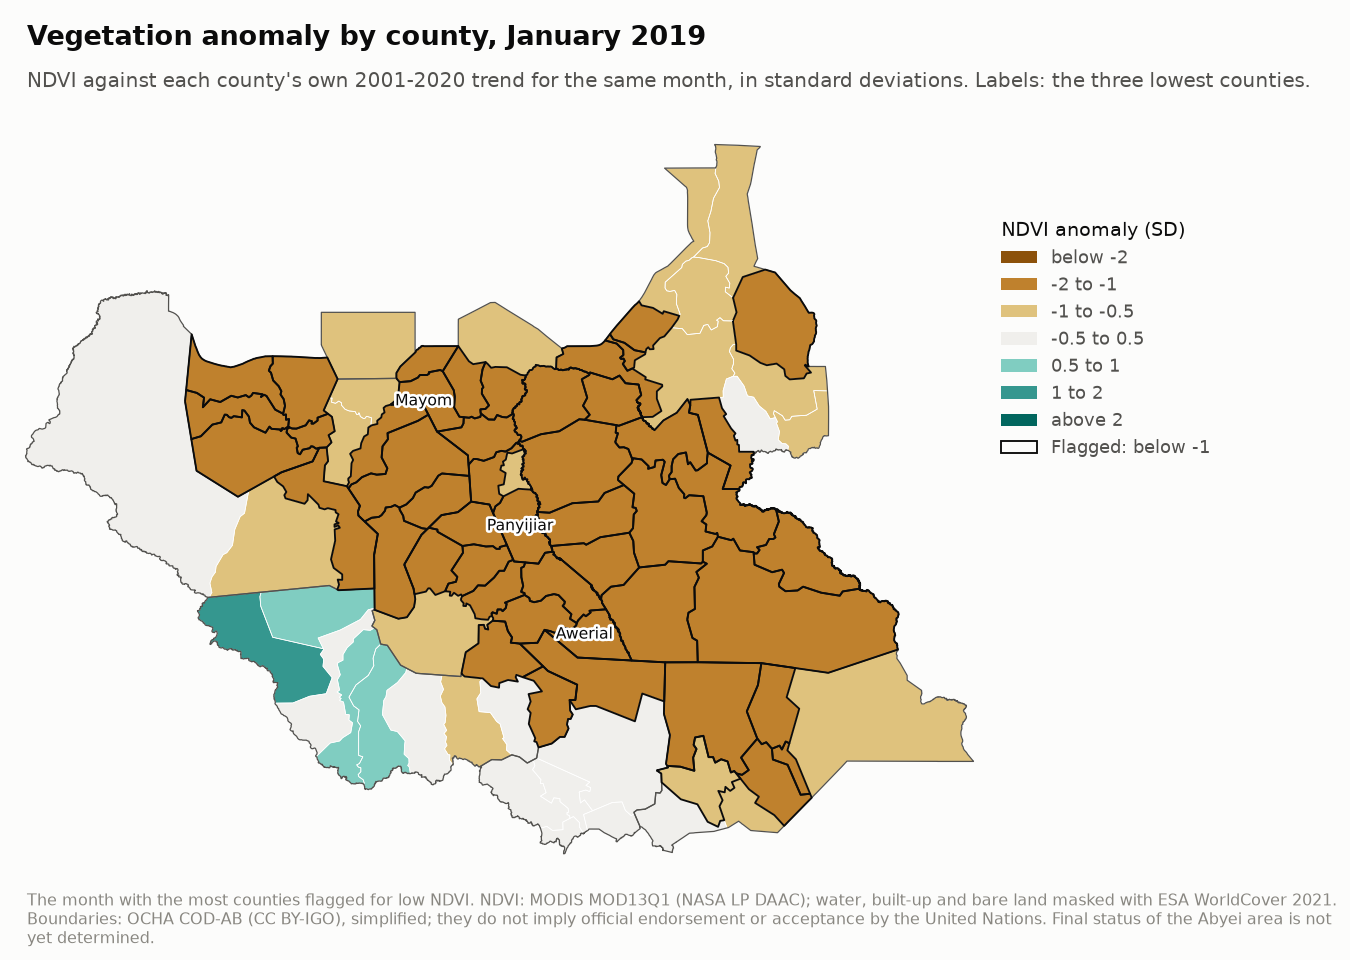
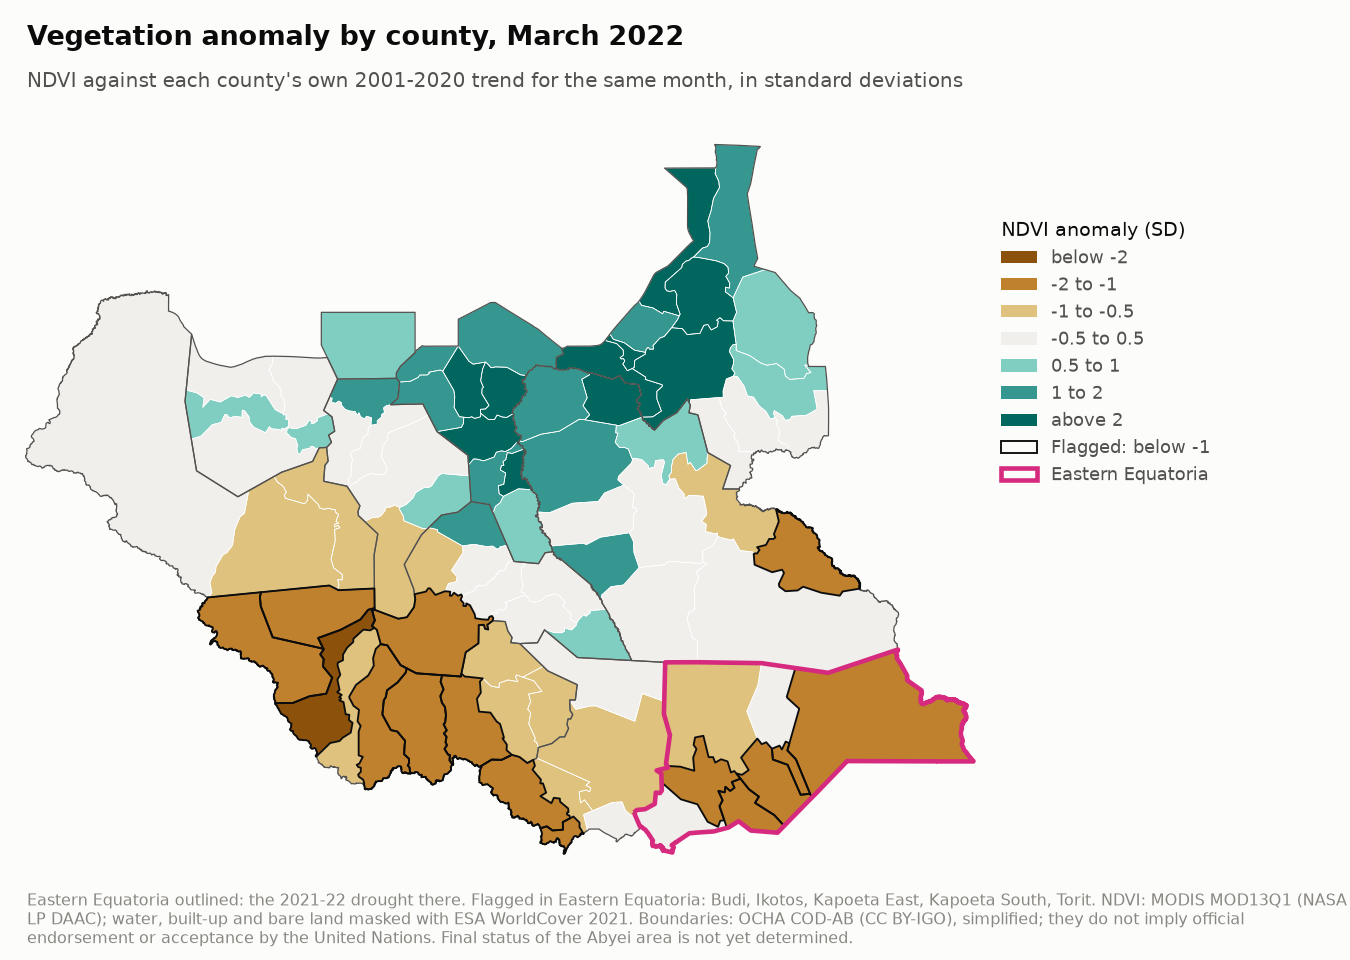
Correct the README's account of the original system and show the 2022 drought
The published flood frequency map used VIIRS flood data analysed by UNOSAT, so it is linked as a related map, not as the system's output. Say that the original classified floods with supervised classification of Sentinel-1, Sentinel-2 and Landsat, that this rebuild uses threshold rules because the training data aren't open, and that the JRC and OCHA results describe the rebuild. Add an At a glance box, start the dates in late 2019 and write 'grown since 2019'.

The vegetation map now shows March 2022 with Eastern Equatoria outlined, set in config.yml, and the national chart notes the May baseline switch.

diff --git a/src/ssd_monitor/plots.py b/src/ssd_monitor/plots.py
@@ -20,6 +20,7 @@ from ssd_monitor.rasters import FrequencyRaster
 INK, SECONDARY, MUTED = "#0b0b0b", "#52514e", "#898781"
 SURFACE, LAND, GRID, BASELINE = "#fcfcfb", "#f0efec", "#e1e0d9", "#c3c2b7"
 SERIES = "#2a78d6"
+HIGHLIGHT = "#d62a7e"  # one state picked out on a county map
 # One hue, light to dark, for magnitude (flood frequency and flooded share).
 BLUES = ["#cde2fb", "#86b6ef", "#3987e5", "#256abf", "#184f95", "#0d366b"]
 # Brown (drier than usual) to teal (greener than usual) with a neutral grey midpoint. Brown-teal
@@ -230,7 +231,8 @@ def plot_national(national: pd.DataFrame, rain_threshold_pct: float, min_normal_
         "and new",
         f"Blank rainfall months: dry months with a normal below {min_normal_mm:g} mm. Rainfall: CHIRPS. "
         "Open water: modified Copernicus Sentinel-1 and Sentinel-2 data. Persistent: also there in March "
-        "and April of the dry season before.",
+        "and April of the dry season before; it steps up each May, when the baseline moves to the dry "
+        "season just ended. January-April 2019 use 2019's own March and April.",
     )
     return fig
 
@@ -301,11 +303,33 @@ def plot_county_flood(
 
 
 def plot_county_ndvi(
-    counties: gpd.GeoDataFrame, county_monthly: pd.DataFrame, month: str, threshold_sd: float
+    counties: gpd.GeoDataFrame,
+    county_monthly: pd.DataFrame,
+    month: str,
+    threshold_sd: float,
+    highlight_state: str | None = None,
+    note: str = "",
 ) -> Figure:
-    """NDVI anomaly of each county in one month, with flagged counties outlined."""
+    """NDVI anomaly of each county in one month, flagged counties outlined, one state picked out."""
     values = county_monthly[county_monthly["month"] == month]
-    lowest3 = values.dropna(subset=["ndvi_anomaly"]).nsmallest(3, "ndvi_anomaly")["county_code"].tolist()
+    in_state = (
+        set(counties.loc[counties["state_name"] == highlight_state, "county_code"])
+        if highlight_state and "state_name" in counties
+        else set()
+    )
+    # With a state picked out, its outline is the focus: name its flagged counties in the note
+    # instead of labelling (its counties are small and the labels would overlap).
+    lowest3 = (
+        []
+        if in_state
+        else values.dropna(subset=["ndvi_anomaly"]).nsmallest(3, "ndvi_anomaly")["county_code"].tolist()
+    )
+    flagged_in_state = values[
+        values["county_code"].isin(in_state) & values["flag_ndvi_low"].fillna(False).astype(bool)
+    ]
+    names = counties.set_index("county_code")["county_name"]
+    flagged_names = ", ".join(sorted(names[c] for c in flagged_in_state["county_code"]))
+    state_note = f"Flagged in {highlight_state}: {flagged_names}. " if flagged_names else ""
     fig, ax, handles = _county_map(
         counties,
         values,
@@ -319,14 +343,20 @@ def plot_county_ndvi(
     handles.append(
         Patch(facecolor="none", edgecolor=INK, linewidth=0.9, label=f"Flagged: below {threshold_sd:g}")
     )
+    if highlight_state and "state_name" in counties and (counties["state_name"] == highlight_state).any():
+        state = counties[counties["state_name"] == highlight_state].dissolve()
+        state.boundary.plot(ax=ax, color=HIGHLIGHT, linewidth=2.2, aspect=None, zorder=5)
+        handles.append(Patch(facecolor="none", edgecolor=HIGHLIGHT, linewidth=2.2, label=highlight_state))
     _legend(ax, handles, "NDVI anomaly (SD)")
     _titles(
         fig,
         f"Vegetation anomaly by county, {month_label(month)}",
-        "NDVI against each county's own 2001-2020 trend for the same month, in standard deviations. "
-        "Labels: the three lowest counties.",
-        "The month with the most counties flagged for low NDVI. NDVI: MODIS MOD13Q1 (NASA LP DAAC); water, "
-        "built-up and bare land masked with ESA WorldCover 2021. " + BOUNDARY_NOTE,
+        "NDVI against each county's own 2001-2020 trend for the same month, in standard deviations"
+        + ("" if in_state else ". Labels: the three lowest counties."),
+        (note + " " if note else "")
+        + state_note
+        + "NDVI: MODIS MOD13Q1 (NASA LP DAAC); water, built-up and bare land masked with ESA WorldCover "
+        "2021. " + BOUNDARY_NOTE,
     )
     return fig
 

diff --git a/scripts/monitor.py b/scripts/monitor.py
@@ -193,9 +193,16 @@ def cmd_plots(cfg: Config) -> None:
     if flood_month:
         fig = plots.plot_county_flood(counties, county_monthly, flood_month, cfg.alerts.flood_new_percentile)
         plots.save(fig, out / "county_flood_peak.png")
-    drought_month = stats.worst_vegetation_month(national)
-    if drought_month:
-        fig = plots.plot_county_ndvi(counties, county_monthly, drought_month, cfg.alerts.ndvi_anomaly_below)
+    drought_month = cfg.figures.ndvi_month
+    if drought_month in set(county_monthly["month"]):
+        fig = plots.plot_county_ndvi(
+            counties,
+            county_monthly,
+            drought_month,
+            cfg.alerts.ndvi_anomaly_below,
+            highlight_state=cfg.figures.ndvi_highlight_state,
+            note=f"{cfg.figures.ndvi_highlight_state} outlined: the 2021-22 drought there.",
+        )
         plots.save(fig, out / "county_ndvi_drought.png")
     print(f"Figures written to {out} (peak new-water month {flood_month}, drought month {drought_month})")
 

diff --git a/src/ssd_monitor/config.py b/src/ssd_monitor/config.py
@@ -95,6 +95,12 @@ class RadarFixTestConfig:
 
 
 @dataclass(frozen=True)
+class FiguresConfig:
+    ndvi_month: str
+    ndvi_highlight_state: str
+
+
+@dataclass(frozen=True)
 class FloodCheckConfig:
     low_lying_max_hand_m: float
     low_lying_share_pct: float
@@ -125,6 +131,7 @@ class Config:
     radar_fix_test: RadarFixTestConfig
     alerts: AlertThresholds
     flood_check: FloodCheckConfig
+    figures: FiguresConfig
 
     @property
     def start_year(self) -> int:
@@ -168,6 +175,7 @@ def load_config(path: str | Path = DEFAULT_CONFIG) -> Config:
         radar_fix_test=RadarFixTestConfig(**_tuples(raw["radar_fix_test"])),
         alerts=AlertThresholds(**raw["alerts"]),
         flood_check=FloodCheckConfig(**raw["flood_check"]),
+        figures=FiguresConfig(**{k: str(v) for k, v in raw["figures"].items()}),
     )
     validate(cfg)
     return cfg

diff --git a/tests/test_plots_and_cli.py b/tests/test_plots_and_cli.py
@@ -75,6 +75,17 @@ def test_county_ndvi_map(counties_gdf, tables, cfg):
     assert "Charlie" in [t.get_text() for t in fig.axes[0].texts]
 
 
+def test_county_ndvi_map_can_pick_out_a_state(counties_gdf, tables, cfg):
+    county_monthly, _ = tables
+    fig = plots.plot_county_ndvi(
+        counties_gdf, county_monthly, "2022-01", cfg.alerts.ndvi_anomaly_below, highlight_state="South"
+    )
+    assert "South" in legend_labels(fig)
+    assert not fig.axes[0].texts  # the state outline is the focus: no county labels
+    assert any("Flagged in South: Charlie" in t for t in texts(fig))
+    assert cfg.figures.ndvi_month == "2022-03"
+
+
 def test_save_writes_a_png(tmp_path, frequency, counties_gdf):
     path = tmp_path / "figures" / "map.png"
     plots.save(plots.plot_flood_frequency(frequency, counties_gdf, "2019-2025", 100), path)

diff --git a/README.md b/README.md
@@ -5,26 +5,49 @@
 Monthly flood, rainfall and vegetation indicators for each of South Sudan's 79 counties, 2019-2025,
 from open satellite data, using the Google Earth Engine Python API and numpy.
 
-From 2019 to 2022 I designed and ran a flood and drought monitoring system for IMPACT Initiatives
-(REACH) in South Sudan. It ran every month for over two years in Google Earth Engine (Python):
-satellite flood extent from radar and optical imagery, CHIRPS rainfall and NDVI, reported by
-county. It produced monthly data, quarterly factsheets and a dashboard used by OCHA, the clusters
-and partners, and we checked it on the ground in three post-flood field assessments. Its outputs
-also fed two separate REACH workflows, the Shocks Monitoring Index (SMI) and Integrated Needs
-Tracking (INT). Two published maps from that work show the kind of output it produced:
-[flood frequency 2019-2021](https://repository.impact-initiatives.org/document/reach/c24a7620/REACH_SSD_Map_SMI_FloodFrequency2019_20_21_31JAN2022_A4-2.pdf)
-and [drought in Eastern Equatoria, January 2022](https://repository.impact-initiatives.org/document/reach/7deca445/REACH_SSD_Map_SMI_Eastern_Equatoria_Drought_JAN2022_A4.pdf).
+From late 2019 to 2022 I designed and ran a flood and drought monitoring system for IMPACT
+Initiatives (REACH) in South Sudan. It ran every month for over two years in Google Earth Engine
+(Python): flood extent from a supervised classification of Sentinel-1 radar and Sentinel-2 and
+Landsat optical imagery, CHIRPS rainfall and NDVI, reported by county. It produced monthly data,
+quarterly factsheets and a dashboard used by OCHA, the clusters and partners, and we checked it on
+the ground in three post-flood field assessments. Its outputs also fed two separate REACH
+workflows, the Shocks Monitoring Index (SMI) and Integrated Needs Tracking (INT). A published map
+from that work shows the kind of output it produced:
+[drought in Eastern Equatoria, January 2022](https://repository.impact-initiatives.org/document/reach/7deca445/REACH_SSD_Map_SMI_Eastern_Equatoria_Drought_JAN2022_A4.pdf).
+A related published REACH map, [flood frequency 2019-2021](https://repository.impact-initiatives.org/document/reach/c24a7620/REACH_SSD_Map_SMI_FloodFrequency2019_20_21_31JAN2022_A4-2.pdf),
+used VIIRS flood data analysed by UNOSAT rather than this system's output.
 
 This repo is an open-data rebuild of the monitoring part, written from scratch from my own
 knowledge of the method. **It contains no REACH data or code:** every input is open data that the
 scripts download (see [Data and licences](#data-and-licences)). The only REACH material is this
-description, the links to the two published maps, and a link to a related repo. It reports each indicator on its
-own, with one documented alert flag each. It does not combine them into an index like the SMI.
+description, the links to the two published maps, and a link to a related repo. The original
+classifier was trained on REACH's own training data, which are not open, so this rebuild maps open
+water with documented threshold rules instead (a radar darkness threshold and an optical water
+index, see [Open water, step by step](#open-water-step-by-step)). **All the results here, including
+the agreement with JRC water and the flood flag's check against OCHA, describe this rebuild, not the
+original system.** It reports each indicator on its own, with one documented alert flag each. It
+does not combine them into an index like the SMI.
 
 **Flood extent here means open water only.** Flooded grassland and swamp, which make up much of
 the flooding in Jonglei, Unity and the Sudd, turn brighter on radar rather than darker and are not
 detected. Flooded areas in this repo therefore sit well below the figures in humanitarian reports
 on the 2019-2022 floods. See [Limitations](#limitations).
+
+> **At a glance**
+>
+> - **What it is:** monthly rainfall, vegetation and open-water indicators for South Sudan's 79
+>   counties, 2019-2025, from open satellite data with Earth Engine and Python; an open-data rebuild
+>   of a system I ran at REACH.
+> - **Validation (of this rebuild):** agreement with JRC's Landsat water maps in every county and
+>   month of 2019-2021 is recall 0.565, precision 0.363. The flood flag caught 93 of 168
+>   OCHA-listed flood-affected county-years, against 70.4 expected by chance: better than chance,
+>   but modest.
+> - **Key results:** open water peaked at 7,051 km² in August 2025. Water that stays after floods
+>   has grown since 2019, from 296 km² a month in July-December 2019 to 3,185 km² in 2025, much of
+>   it in Unity. Rainfall flagged the 2021 drought in Eastern Equatoria (33 county-months below 75%
+>   of normal).
+> - **The main limit:** open water only. Flooding under vegetation isn't detected, so areas sit far
+>   below humanitarian estimates of flooded land, and the rain-fed 2019 floods hardly register.
 
 ## Figures and results
 
@@ -42,12 +65,14 @@ before (in both March and April). The lakes that stayed in Unity drop out.*
 ![National monthly rainfall (% of normal) and open water, 2019-2025](outputs/figures/national_monthly.png)
 
 *Top: national rainfall as % of the 1991-2020 normal. Bottom: open water outside permanent water,
-split into persistent water (also there in March and April before) and new water.*
+split into persistent water (also there in March and April before) and new water. Persistent water
+steps up each May, when the baseline moves to the dry season just ended; January-April 2019 use
+2019's own March and April, so they show more persistent water than the months after.*
 
 | | |
 | :- | :- |
-| ![New water in each county, September 2022](outputs/figures/county_flood_peak.png) | ![NDVI anomaly by county, January 2019](outputs/figures/county_ndvi_drought.png) |
-| *Share of each county under new water in September 2022, the month with the most new water. Outlined: counties flagged against their own record.* | *NDVI anomaly against each county's trend in January 2019, the month with the most counties flagged.* |
+| ![New water in each county, September 2022](outputs/figures/county_flood_peak.png) | ![NDVI anomaly by county, March 2022, Eastern Equatoria outlined](outputs/figures/county_ndvi_drought.png) |
+| *Share of each county under new water in September 2022, the month with the most new water. Outlined: counties flagged against their own record.* | *NDVI anomaly against each county's trend in March 2022, with Eastern Equatoria outlined: the drought there that the original system mapped in January 2022 ([published map](https://repository.impact-initiatives.org/document/reach/7deca445/REACH_SSD_Map_SMI_Eastern_Equatoria_Drought_JAN2022_A4.pdf)). Five of its eight counties are flagged; Western and Central Equatoria are below trend too.* |
 
 What the run (January 2019 to December 2025, 79 counties) shows:
 
@@ -58,8 +83,9 @@ What the run (January 2019 to December 2025, 79 counties) shows:
   (87-99% by state). 622 of the 4,340 county-months with a rainfall normal of at least 20 mm were
   flagged below 75% of normal, including 33 in Eastern Equatoria in 2021.
 - **Open water.** The largest monthly total was 7,051 km² in August 2025, and the most new water
-  4,176 km² in September 2022. Water that stays has grown every year: persistent water averaged
-  296 km² a month in July-December 2019 and 3,185 km² in July-December 2025. In Unity the
+  4,176 km² in September 2022. Water that stays has grown since 2019: persistent water averaged
+  296 km² a month in July-December 2019 and 3,185 km² in July-December 2025 (2024 was slightly
+  below 2023). In Unity the
   July-November average rose from 171-369 km² in 2019-2021 to 1,292-2,432 km² in 2022-2025, as
   floodwater around Rubkona, Guit and Mayendit stayed; of that, 442-1,578 km² a month was
   persistent and 584-854 km² new.
@@ -69,8 +95,10 @@ What the run (January 2019 to December 2025, 79 counties) shows:
   modest: it caught 93 of the 168 listed county-years, against 70.4 expected from a random flag
   firing as often (details below).
 - **Vegetation.** 798 county-months (12.0%) were flagged for low NDVI, most in January 2019 (48
-  counties), May 2024 (45) and May 2019 (43). These are dry-season months: see the note on the
-  January 2022 drought under [Vegetation](#vegetation).
+  counties), May 2024 (45) and May 2019 (43). These are dry-season months. January is the dormant
+  season and burnt land lowers NDVI then, so January 2019's 48 are not a drought signal on their
+  own. The 2021-22 drought in Eastern Equatoria shows best in March 2022 (5 of its 8 counties; see
+  [Vegetation](#vegetation)).
 
 **Why 2019 has the least new water of the seven years.** July-December 2019 averaged 1,197 km² of
 new water a month, against 1,533-3,156 km² in the other years, although 2019 brought major floods.
@@ -103,8 +131,9 @@ For every county and every month from January 2019 to December 2025:
 | Vegetation | MODIS MOD13Q1 NDVI, 250 m | monthly mean NDVI, the county's trend value for that month, anomaly from the trend | anomaly below -1 |
 | Open water | Sentinel-1 radar and Sentinel-2 optical, analysed at 100 m | open water km² and % of county, km² flagged by each sensor, persistent and new water, % of county observed | new water above the county's own 80th percentile for that month, and at least 10 km² |
 
-It also maps how many months each 100 m pixel had open water, and new water, over 2019-2025: the
-equivalent of the REACH flood frequency map.
+It also maps how many months each 100 m pixel had open water, and new water, over 2019-2025,
+comparable in form to the published 2019-2021 flood frequency map (which used VIIRS flood data
+analysed by UNOSAT).
 
 ### Pipeline
 
@@ -290,7 +319,8 @@ precision is the share of the layer's flagged area that JRC also calls water.
 | Dry season (December-May) | 0.552 | 0.366 |
 | Wet season (June-November) | 0.579 | 0.359 |
 
-These figures measure **agreement with JRC monthly water, not accuracy**. JRC has its own errors,
+These figures describe this rebuild, not the original system, and they measure **agreement with
+JRC monthly water, not accuracy**. JRC has its own errors,
 it only covers open water that Landsat saw (so flooding under vegetation is missing from both), and
 where Landsat saw no water, Sentinel-2's MNDWI often finds wet soil or mixed water at the edges. The
 per county-month areas are in `outputs/raw/jrc_agreement.csv`.
@@ -344,7 +374,8 @@ and 3.5 for the old rule). **Its skill is better than chance but modest**: 93 of
 county-years against 70.4 expected, with 75 misses and 55 false alarms; it does best in 2019. R2
 is rarely wrong but rarely fires, and the old rule hardly fires at all. OCHA lists people affected
 by any flooding, including rain and flash floods and flooding under vegetation, so an open-water
-flag can't match it closely. The table is `outputs/flood_flag_check.csv`.
+flag can't match it closely. Like the JRC figures, this describes this rebuild's flag, not the
+original system. The table is `outputs/flood_flag_check.csv`.
 
 ### Scales and cost
 
@@ -540,7 +571,7 @@ probably add detections, so years are not strictly comparable.
 
 **Seasonal wetlands count as water.** Open water that isn't permanent (in at least 80% of Landsat
 observations since 1984) counts whenever it appears, so floodplains that fill every rainy season
-are new water every year, as in the original flood frequency maps.
+are new water every year.
 
 **County averages hide local extremes.** A county can pass every threshold while one part of it is
 badly flooded or very dry. The frequency maps show where within a county water appears.
